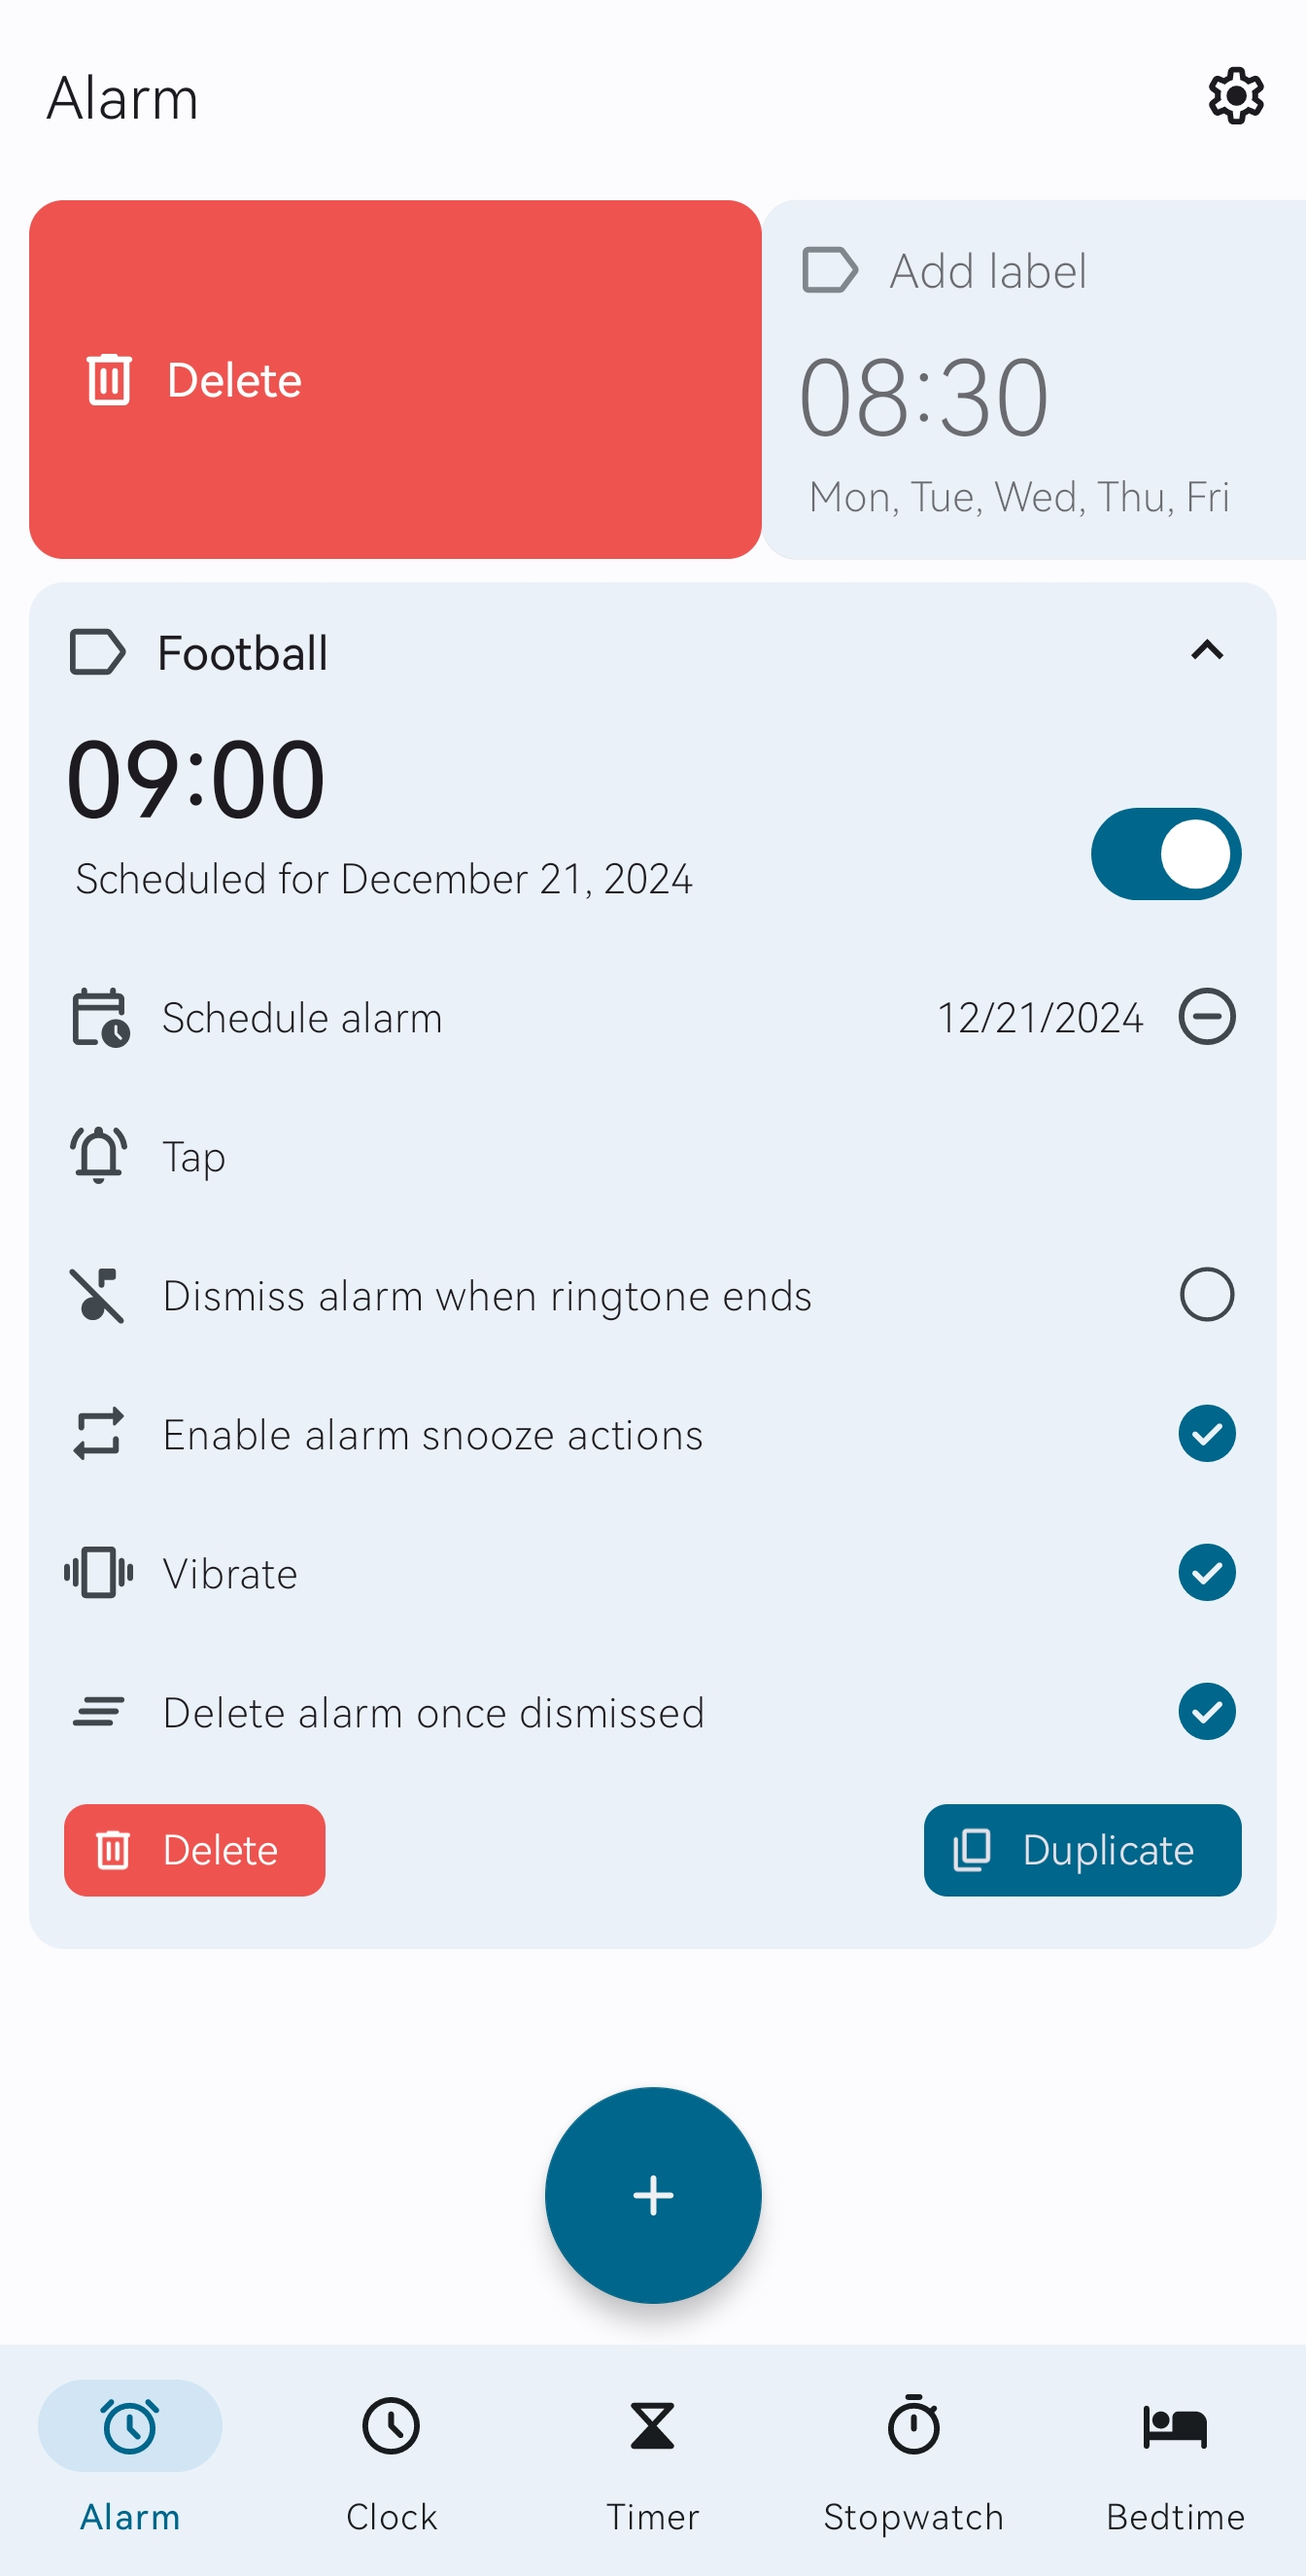
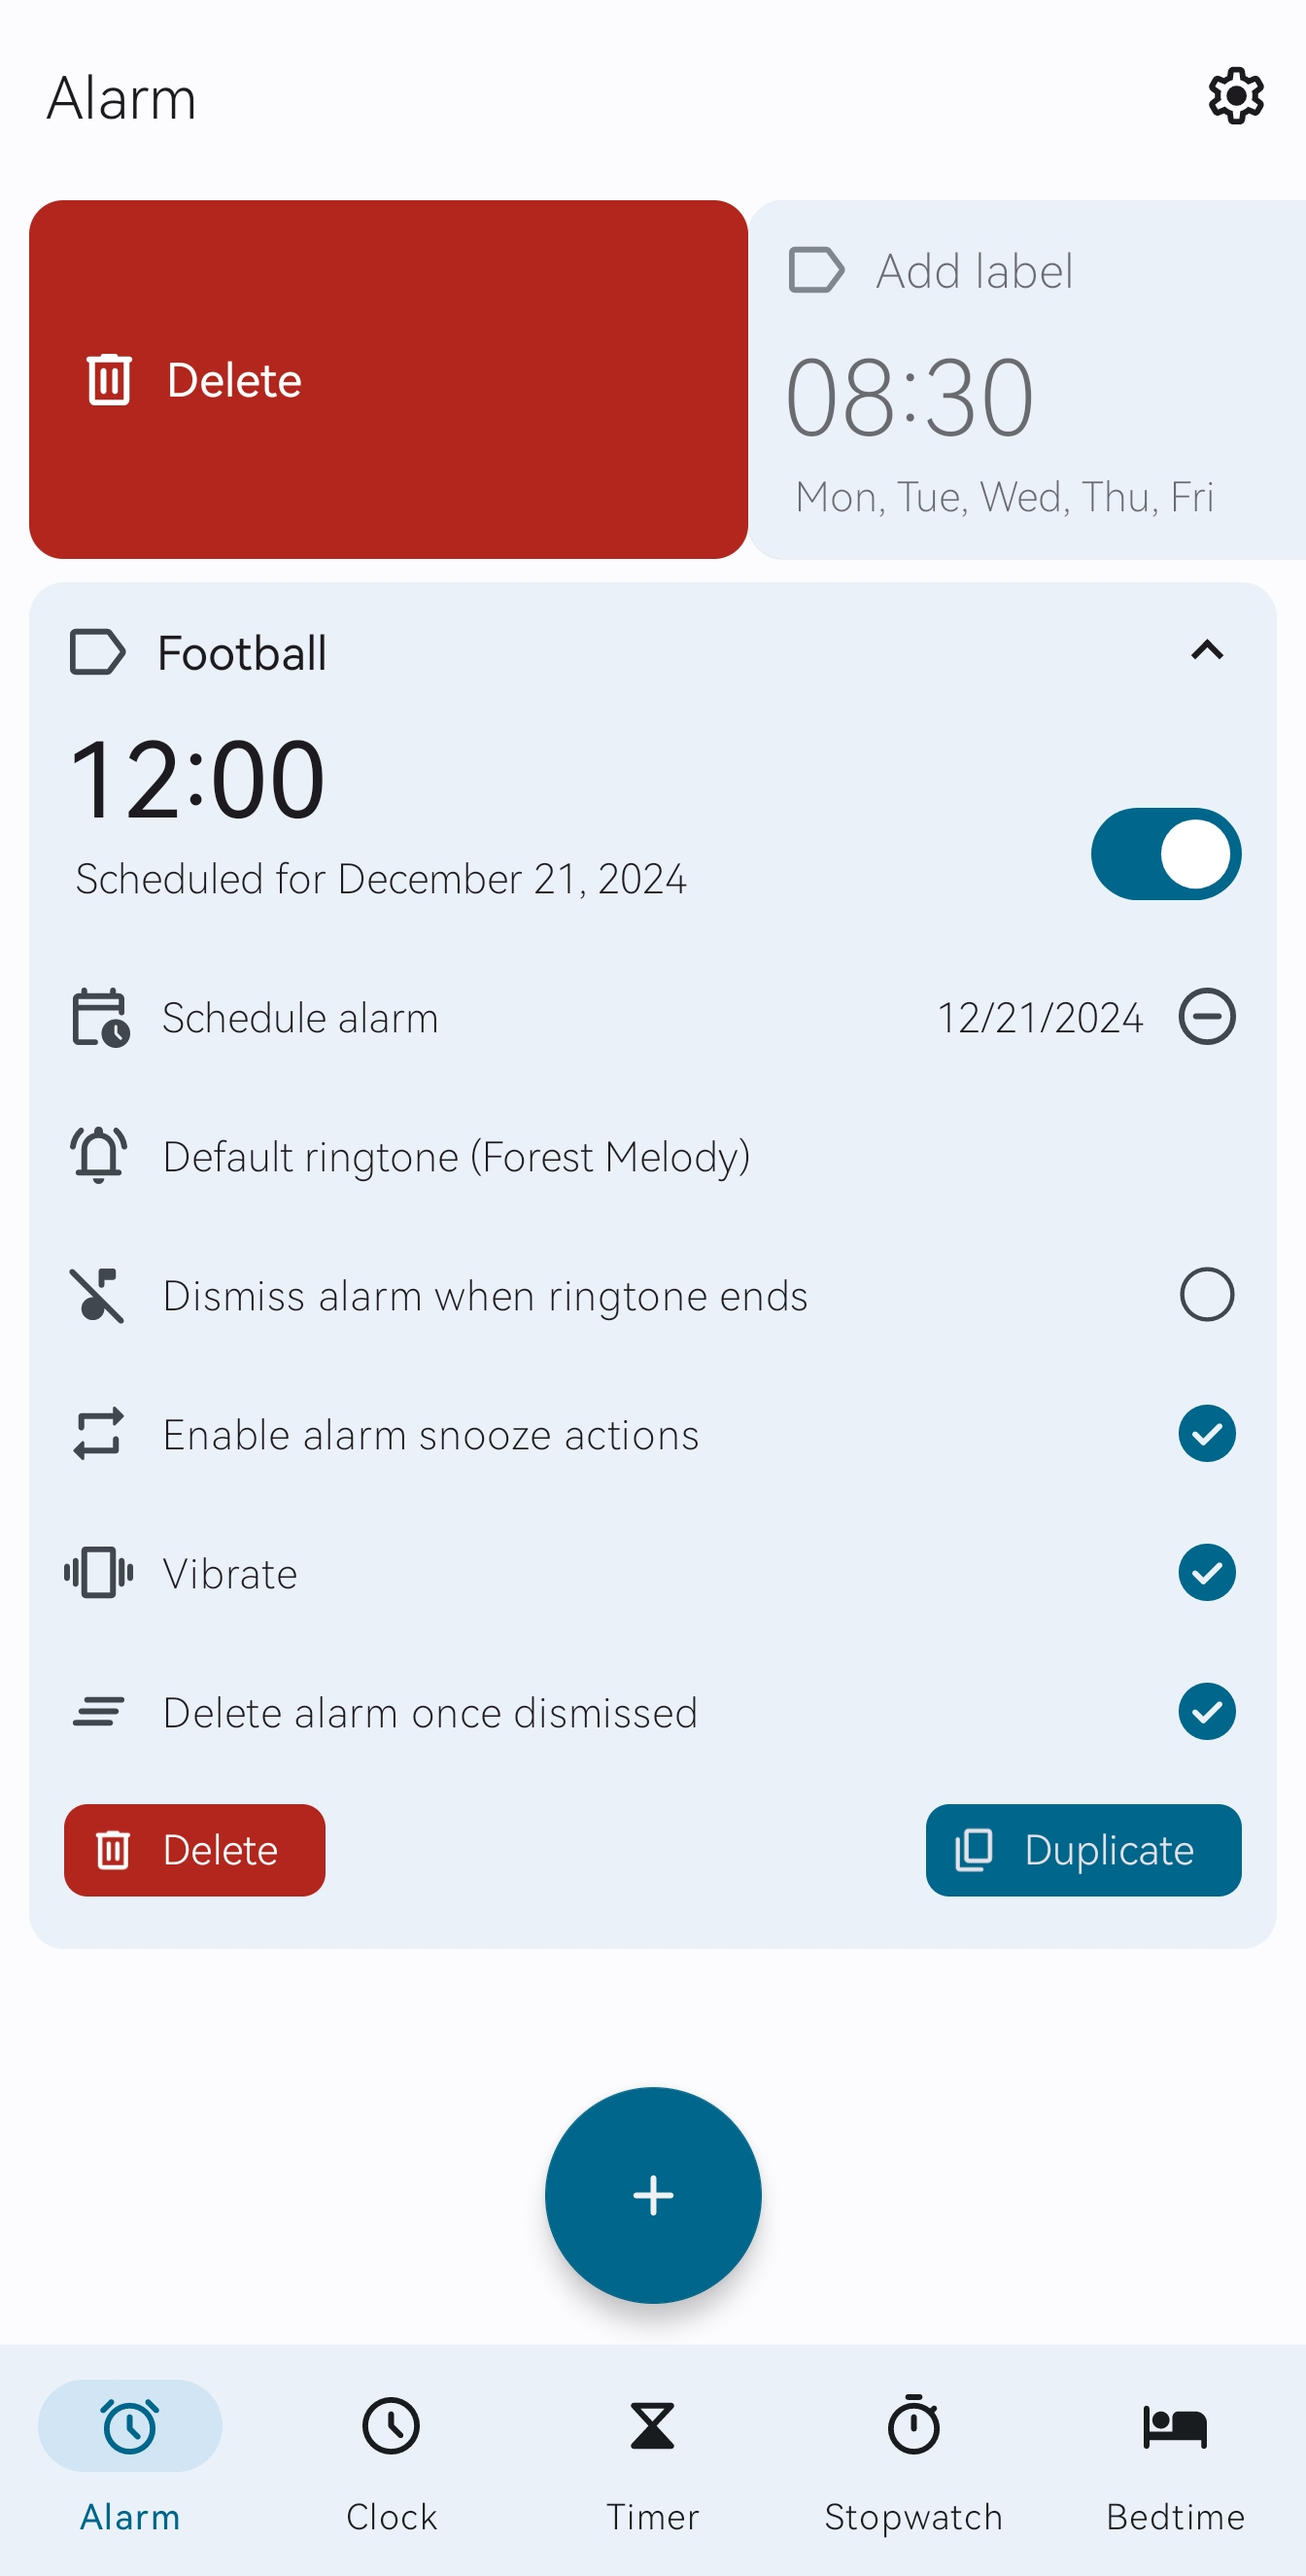
Replace red color with Material error color
- It's now closer to the Material style;
- The green color when permission was granted has been adjusted;
- Update screenshot in Readme;

diff --git a/app/src/main/java/com/best/deskclock/AlarmClockFragment.java b/app/src/main/java/com/best/deskclock/AlarmClockFragment.java
@@ -14,6 +14,7 @@ import android.content.Intent;
 import android.database.Cursor;
 import android.graphics.Canvas;
 import android.graphics.Color;
+import android.graphics.PorterDuff;
 import android.graphics.Typeface;
 import android.graphics.drawable.Drawable;
 import android.graphics.drawable.GradientDrawable;
@@ -226,7 +227,8 @@ public final class AlarmClockFragment extends DeskClockFragment implements
                     );
 
                     final GradientDrawable background = new GradientDrawable();
-                    background.setColor(Color.parseColor("#EF5350"));
+                    background.setColor(MaterialColors.getColor(
+                            mContext, com.google.android.material.R.attr.colorError, Color.BLACK));
                     background.setBounds(
                             viewHolder.itemView.getLeft(),
                             viewHolder.itemView.getTop(),
@@ -243,6 +245,9 @@ public final class AlarmClockFragment extends DeskClockFragment implements
                     if (dX > deleteIconHorizontalMargin) {
                         Drawable deleteIcon = AppCompatResources.getDrawable(mContext, R.drawable.ic_delete);
                         if (deleteIcon != null) {
+                            deleteIcon.setColorFilter(MaterialColors.getColor(
+                                    mContext, com.google.android.material.R.attr.colorOnError, Color.BLACK),
+                                    PorterDuff.Mode.SRC_IN);
                             deleteIconSize = deleteIcon.getIntrinsicHeight();
                             int halfIcon = deleteIconSize / 2;
                             int top = viewHolder.itemView.getTop()
@@ -266,7 +271,8 @@ public final class AlarmClockFragment extends DeskClockFragment implements
                         textPaint.setAntiAlias(true);
                         textPaint.setTextSize(TypedValue.applyDimension(TypedValue.COMPLEX_UNIT_SP, 16,
                                 mContext.getResources().getDisplayMetrics()));
-                        textPaint.setColor(Color.WHITE);
+                        textPaint.setColor(MaterialColors.getColor(
+                                mContext, com.google.android.material.R.attr.colorOnError, Color.BLACK));
                         textPaint.setTypeface(Typeface.DEFAULT_BOLD);
 
                         int textMarginLeft = (int) (viewHolder.itemView.getLeft() + 1.5 * deleteIconHorizontalMargin + deleteIconSize);

diff --git a/app/src/main/java/com/best/deskclock/settings/PermissionsManagementActivity.java b/app/src/main/java/com/best/deskclock/settings/PermissionsManagementActivity.java
@@ -252,23 +252,23 @@ public class PermissionsManagementActivity extends CollapsingToolbarBaseActivity
                 ? R.string.permission_granted
                 : R.string.permission_denied);
         mIgnoreBatteryOptimizationsStatus.setTextColor(isIgnoringBatteryOptimizations(this)
-                ? Color.parseColor("#66BB6A")
-                : Color.parseColor("#EF5350"));
+                ? this.getColor(R.color.colorGranted)
+                : MaterialColors.getColor(this, com.google.android.material.R.attr.colorError, Color.BLACK));
 
         mNotificationStatus.setText(areNotificationsEnabled(this)
                 ? R.string.permission_granted
                 : R.string.permission_denied);
         mNotificationStatus.setTextColor(areNotificationsEnabled(this)
-                ? Color.parseColor("#66BB6A")
-                : Color.parseColor("#EF5350"));
+                ? this.getColor(R.color.colorGranted)
+                : MaterialColors.getColor(this, com.google.android.material.R.attr.colorError, Color.BLACK));
 
         if (Build.VERSION.SDK_INT >= Build.VERSION_CODES.UPSIDE_DOWN_CAKE) {
             mFullScreenNotificationsStatus.setText(areFullScreenNotificationsEnabled(this)
                     ? R.string.permission_granted
                     : R.string.permission_denied);
             mFullScreenNotificationsStatus.setTextColor(areFullScreenNotificationsEnabled(this)
-                    ? Color.parseColor("#66BB6A")
-                    : Color.parseColor("#EF5350"));
+                    ? this.getColor(R.color.colorGranted)
+                    : MaterialColors.getColor(this, com.google.android.material.R.attr.colorError, Color.BLACK));
         }
     }
 

diff --git a/app/src/main/java/com/best/deskclock/settings/SettingsActivity.java b/app/src/main/java/com/best/deskclock/settings/SettingsActivity.java
@@ -40,6 +40,7 @@ import androidx.preference.Preference;
 import com.best.deskclock.R;
 import com.best.deskclock.data.DataModel;
 import com.best.deskclock.widget.CollapsingToolbarBaseActivity;
+import com.google.android.material.color.MaterialColors;
 
 import java.io.FileNotFoundException;
 import java.io.IOException;
@@ -305,7 +306,9 @@ public final class SettingsActivity extends CollapsingToolbarBaseActivity {
                 final String messagePermission = requireContext().getString(R.string.settings_permission_message);
                 final Spannable spannableMessagePermission = new SpannableString(messagePermission);
                 spannableMessagePermission.setSpan(
-                        new ForegroundColorSpan(Color.RED), 0, messagePermission.length(), 0);
+                        new ForegroundColorSpan(MaterialColors.getColor(
+                                requireContext(), com.google.android.material.R.attr.colorError, Color.BLACK)),
+                        0, messagePermission.length(), 0);
                 spannableMessagePermission.setSpan(
                         new StyleSpan(Typeface.BOLD), 0, messagePermission.length(), 0);
                 builderPermissionMessage.append(spannableMessagePermission);

diff --git a/app/src/main/java/com/best/deskclock/DeskClock.java b/app/src/main/java/com/best/deskclock/DeskClock.java
@@ -414,7 +414,8 @@ public class DeskClock extends AppCompatActivity
         if (PermissionsManagementActivity.areEssentialPermissionsNotGranted(this)) {
             final Drawable warningIcon = AppCompatResources.getDrawable(this, R.drawable.ic_error);
             assert warningIcon != null;
-            warningIcon.setColorFilter(Color.parseColor("#EF5350"), PorterDuff.Mode.SRC_IN);
+            warningIcon.setColorFilter(MaterialColors.getColor(
+                    this, com.google.android.material.R.attr.colorError, Color.BLACK), PorterDuff.Mode.SRC_IN);
             menu.add(0, Menu.FIRST, 0, R.string.denied_permission_label)
                     .setIcon(warningIcon).setShowAsAction(MenuItem.SHOW_AS_ACTION_ALWAYS);
         }
